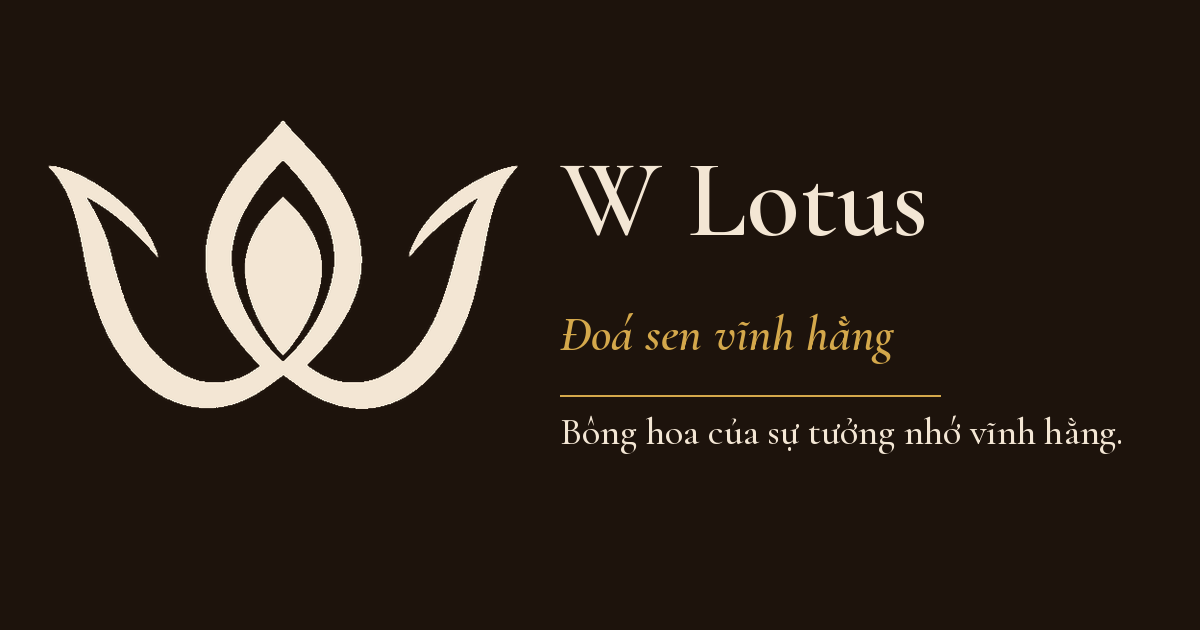
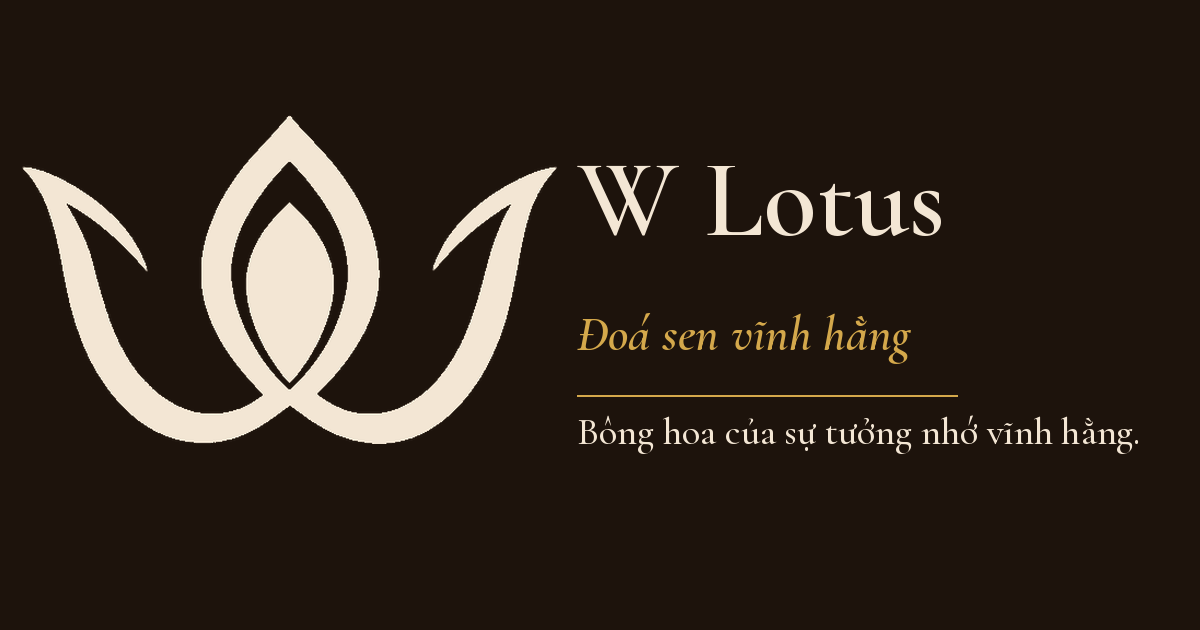
fix(web): sit the last OG line on the lotus base
Keep the wordmark on the outer petal tips and scale the mark so its
base meets the letterforms of the last line (not the descender tails).

diff --git a/scripts/build-og-image.py b/scripts/build-og-image.py
@@ -4,9 +4,9 @@
 Layout matches danaverse.org/og.png: rosewood field, cream brand mark on
 the left, serif wordmark + gold tagline + rule + remembrance line.
 
-The lotus is scaled to the type stack. Outer petal tips (not the
-center spike) align with the top of “W Lotus”; the center spike sits
-a little above the type.
+The lotus body (outer petal tips → base) matches the type stack: those
+tips align with the top of “W Lotus”, the base with the last line. The
+center spike sits a little above the wordmark.
 
 Outputs (product default is Vietnamese). Canonical path is `/images/`
 so messengers never reuse a poisoned `/og.png` cache from when nginx
@@ -157,6 +157,33 @@ def line_h(font: ImageFont.FreeTypeFont) -> int:
     return ascent + descent
 
 
+def visual_ink_bottom(text: str, font: ImageFont.FreeTypeFont, x: int, y: int) -> int:
+    """Lowest y of the letterforms, skipping thin descender tails (g, y, …)."""
+    tmp = Image.new("L", (WIDTH, HEIGHT), 0)
+    ImageDraw.Draw(tmp).text((x, y), text, font=font, anchor="lt", fill=255)
+    bbox = tmp.getbbox()
+    if not bbox:
+        return y
+    left, top, right, bottom = bbox
+    px = tmp.load()
+    assert px is not None
+    rows: list[tuple[int, int]] = []
+    peak = 0
+    for row in range(top, bottom):
+        n = 0
+        for col in range(left, right):
+            if px[col, row] > 128:
+                n += 1
+        rows.append((row, n))
+        if n > peak:
+            peak = n
+    thresh = max(24, peak // 5)
+    for row, n in reversed(rows):
+        if n >= thresh:
+            return row
+    return bottom - 1
+
+
 def compose(card: dict, glyph_src: Image.Image) -> None:
     canvas = Image.new("RGB", (WIDTH, HEIGHT), BG)
     draw = ImageDraw.Draw(canvas)
@@ -171,7 +198,6 @@ def compose(card: dict, glyph_src: Image.Image) -> None:
     title = "W Lotus"
     tag = card["tag"]
     body = card["body"]
-    text_x = 560
 
     gap_title_tag = 14
     gap_tag_line = 20
@@ -191,34 +217,41 @@ def compose(card: dict, glyph_src: Image.Image) -> None:
     line_y = tag_y + line_h(tag_font) + gap_tag_line
     body_y = line_y + gap_line_body
 
+    title_ink = draw.textbbox((0, title_y), title, font=title_font, anchor="lt")
+    tag_ink = draw.textbbox((0, tag_y), tag, font=tag_font, anchor="lt")
+    body_ink = draw.textbbox((0, body_y), body, font=body_font, anchor="lt")
+    title_top = title_ink[1]
+    body_vis = visual_ink_bottom(body, body_font, 0, body_y)
+    stack_ink_h = max(1, body_vis - title_top)
+
+    # Scale so outer-petal-tips → base equals the type stack; spike is extra.
+    tip_src = outer_petal_tip_y(glyph_src)
+    scale = stack_ink_h / max(1, glyph_src.height - tip_src)
+    flower_h = max(1, round(glyph_src.height * scale))
+    flower_w = max(1, round(glyph_src.width * scale))
+    glyph = glyph_src.resize((flower_w, flower_h), Image.Resampling.LANCZOS)
+    tip = outer_petal_tip_y(glyph)
+
+    # Flower grows with the type stack; sit it on the left and keep a
+    # shared wordmark x so vi/en/zh cards match.
+    gx = 22
+    text_x = gx + glyph.width + 20
+    text_right = text_x + max(
+        title_ink[2] - title_ink[0],
+        tag_ink[2] - tag_ink[0],
+        body_ink[2] - body_ink[0],
+    )
+    if gx < 0 or text_right > WIDTH - 36:
+        raise SystemExit(
+            f"{card['locale']} overflows: gx={gx} flower_w={glyph.width} "
+            f"text_x={text_x} text_right={text_right}"
+        )
+
+    gy = title_top - tip
     draw.text((text_x, title_y), title, font=title_font, fill=CREAM, anchor="lt")
     draw.text((text_x, tag_y), tag, font=tag_font, fill=GOLD, anchor="lt")
     draw.line((text_x, line_y, text_x + line_w, line_y), fill=GOLD, width=2)
     draw.text((text_x, body_y), body, font=body_font, fill=CREAM, anchor="lt")
-
-    title_ink = draw.textbbox(
-        (text_x, title_y), title, font=title_font, anchor="lt"
-    )
-    body_ink = draw.textbbox(
-        (text_x, body_y), body, font=body_font, anchor="lt"
-    )
-    # Keep long Vietnamese on-canvas.
-    if body_ink[2] > WIDTH - 40:
-        raise SystemExit(
-            f"{card['locale']} body overflows x={body_ink[2]}: {body!r}"
-        )
-
-    # Same scale as the type stack (title top → last line). Shift up so the
-    # outer petal tips — not the center spike — meet “W Lotus”.
-    title_top = title_ink[1]
-    flower_bottom = body_ink[3]
-    flower_h = max(1, flower_bottom - title_top)
-    scale = flower_h / glyph_src.height
-    flower_w = max(1, round(glyph_src.width * scale))
-    glyph = glyph_src.resize((flower_w, flower_h), Image.Resampling.LANCZOS)
-    tip = outer_petal_tip_y(glyph)
-    gy = title_top - tip
-    gx = max(48, text_x - 56 - glyph.width)
     canvas.paste(glyph, (gx, gy), glyph)
 
     canonical = IMAGES / card["file"]
@@ -228,7 +261,8 @@ def compose(card: dict, glyph_src: Image.Image) -> None:
     print(
         f"wrote {canonical.relative_to(ROOT)} "
         f"({canonical.stat().st_size} bytes) "
-        f"locale={card['locale']} body_right={body_ink[2]}"
+        f"locale={card['locale']} text_x={text_x} "
+        f"body_right={text_x + (body_ink[2] - body_ink[0])}"
     )
 
 
